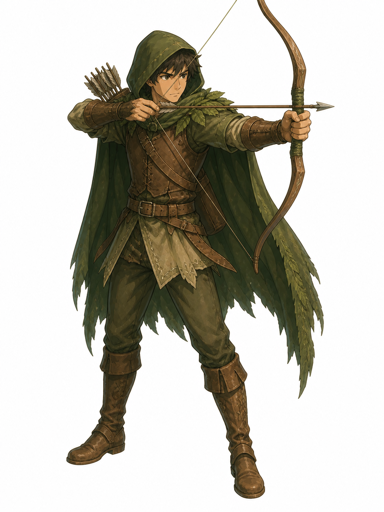
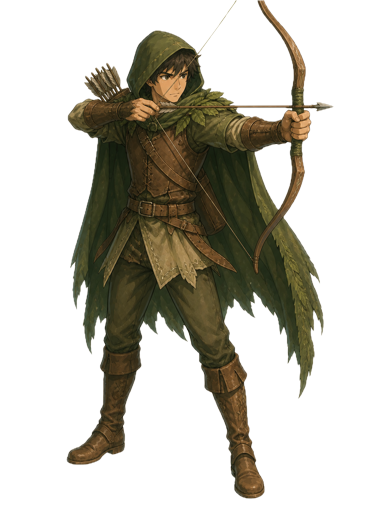
polish(art): drop now-unneeded mask; add ground shadow under fighters
Heroes are transparent PNGs now (user ran them through remove.bg), so
the soft elliptical mask on .fighter-art img was redundant. Replaced
it with a soft radial floor shadow that grounds each character to the
arena instead of leaving them floating.

diff --git a/apps/web/src/styles.css b/apps/web/src/styles.css
@@ -587,16 +587,29 @@ h1, h2, h3, h4 {
   place-items: end center;
 }
 
+.fighter-art {
+  position: relative;
+}
+
+.fighter-art::after {
+  /* soft ground shadow — anchors the character to the arena floor */
+  content: "";
+  position: absolute;
+  left: 15%;
+  right: 15%;
+  bottom: -2%;
+  height: 8%;
+  background: radial-gradient(ellipse at center, rgba(0, 0, 0, 0.55), transparent 70%);
+  z-index: -1;
+  pointer-events: none;
+}
+
 .fighter-art img {
   width: 100%;
   height: auto;
   display: block;
   filter: drop-shadow(0 10px 12px rgba(0, 0, 0, 0.55));
   user-select: none;
-  /* generous mask — keeps full character visible and only fades the
-     outermost edge of the opaque PNG background into the arena */
-  -webkit-mask-image: radial-gradient(ellipse 85% 95% at 50% 50%, black 80%, transparent 100%);
-  mask-image: radial-gradient(ellipse 85% 95% at 50% 50%, black 80%, transparent 100%);
 }
 
 .arena-fighter.foe .fighter-art img {
